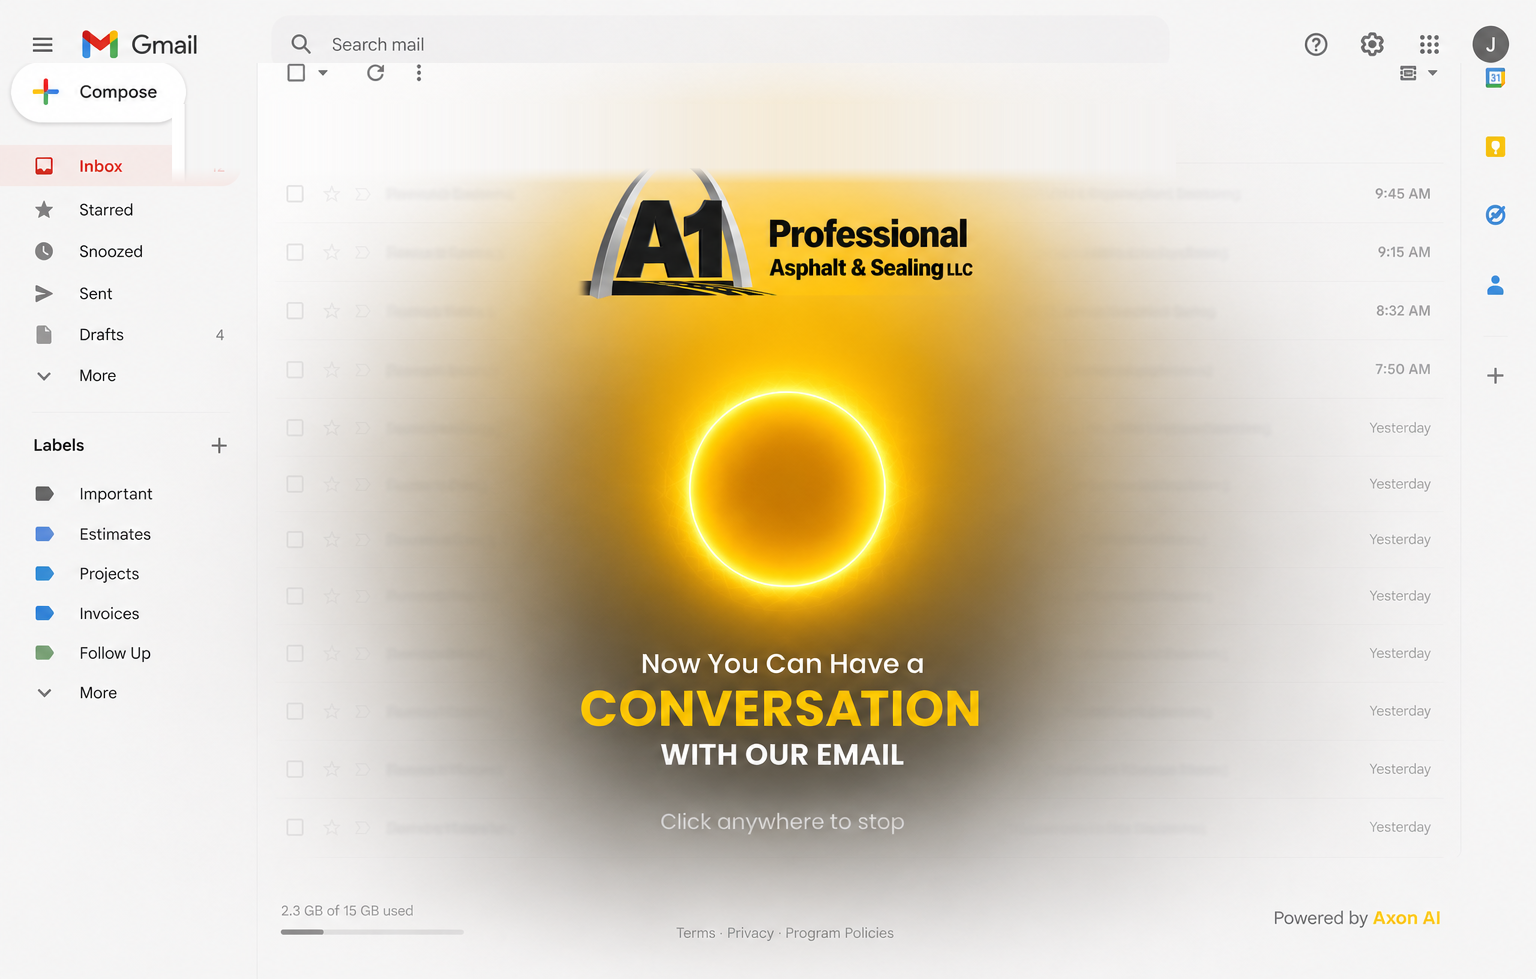
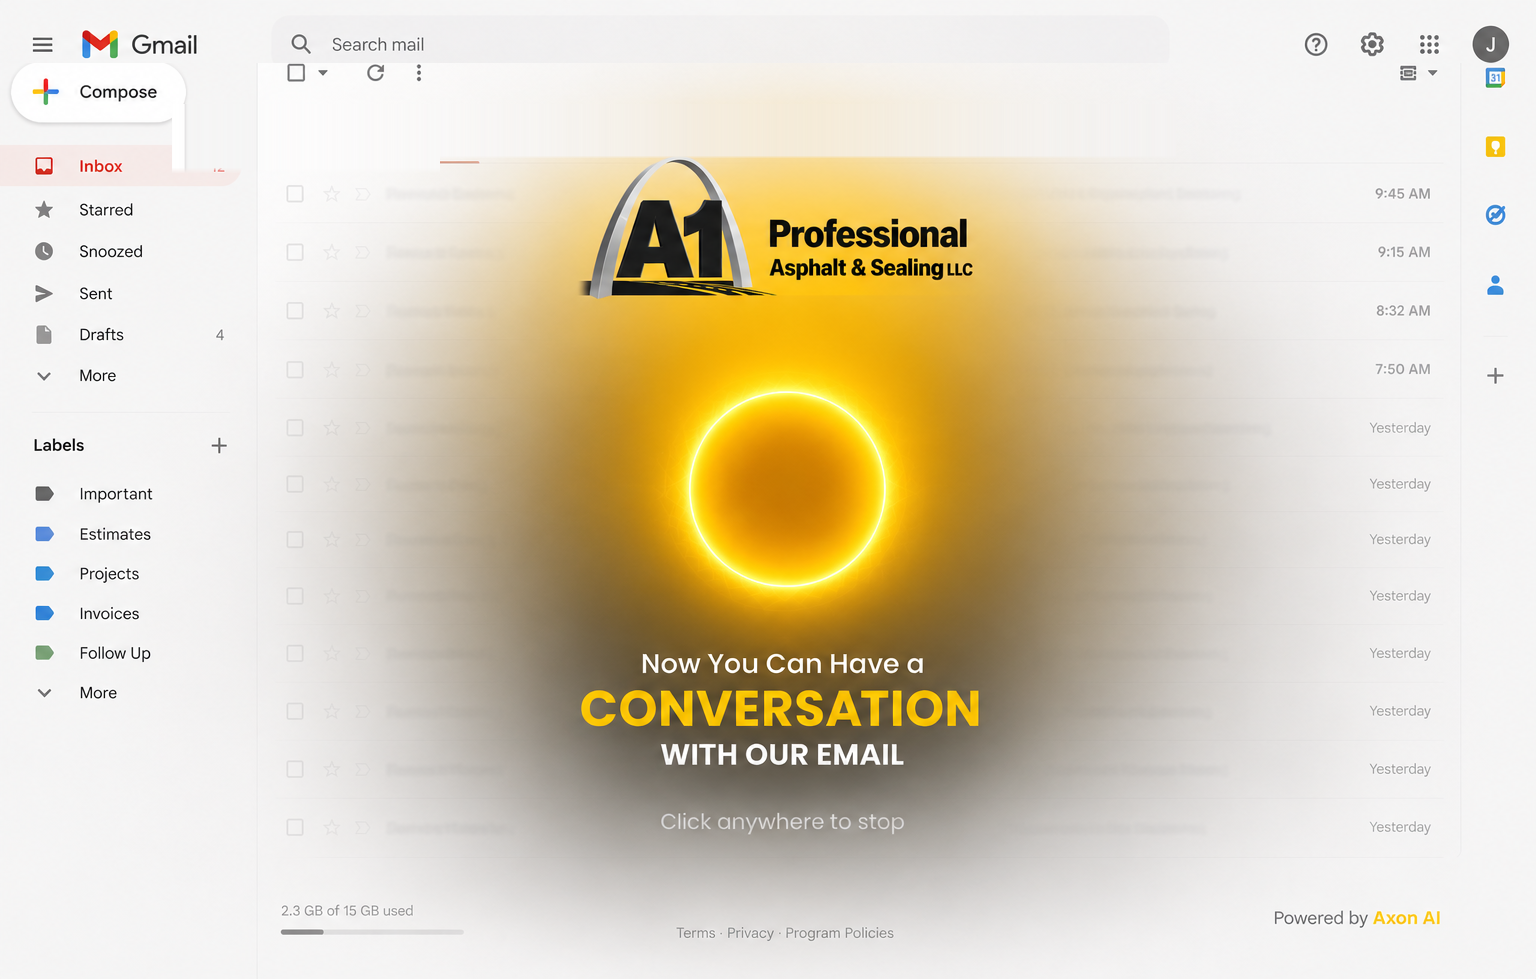
Restore Gmail illusion: remove black bar (float small glassy controls); fix arch (tab cleanup no longer touches it)
- Controls now float as small glassy pills (Type instead / Human team / Pause) + small loud-hint chip + tiny Powered by Axon AI. No solid black dock — the Gmail inbox shows through.
- talk-bg-v2.png regenerated: tab cleanup limited to rows 104-156 (full width) + left-only underline cleanup; arch region (x560-960, rows159-260) verified 0 pixels changed. Arch fully intact.
- Orb + CONVERSATION tagline fully visible (nothing covering them).
- Verified by rendering 2560x1440, 1440x900, 390x844.

Changed region(s): [[0.3438, 0.1532, 0.6875, 0.1839]]

diff --git a/public/talk.html b/public/talk.html
@@ -14,24 +14,27 @@ html,body{width:100%;height:100%;overflow:hidden;background:#fff;
 #bgWrap{position:fixed;inset:0;overflow:hidden;background:#fff;}
 #bg{position:absolute;inset:0;background-image:url('/email/talk-bg-v2.png');
   background-repeat:no-repeat;background-position:0 0;background-size:100% 100%;}
-/* Footer dock — taller so the three buttons read clearly. */
+/* Controls float as small glassy chips over the inbox — NO solid bar, so the
+   Gmail illusion shows through. */
 #dock{
-  position:fixed;left:0;right:0;bottom:0;z-index:5;
-  background:rgba(12,12,12,0.95);
-  border-top:1px solid rgba(255,255,255,0.12);
-  padding:14px 12px calc(14px + env(safe-area-inset-bottom));
+  position:fixed;left:0;right:0;bottom:0;z-index:5;background:transparent;border:0;
+  padding:0 12px calc(16px + env(safe-area-inset-bottom));
+  display:flex;flex-direction:column;align-items:center;gap:9px;pointer-events:none;
 }
+#dock>*{pointer-events:auto;}
 body.texting #dock{display:none;}
 #loudHint{
-  text-align:center;margin:0 0 11px;
-  font:650 13px/1.3 system-ui,sans-serif;color:rgba(255,255,255,0.7);
+  font:650 12.5px/1.2 system-ui,sans-serif;color:#fff;
+  background:rgba(18,18,18,0.6);-webkit-backdrop-filter:blur(8px);backdrop-filter:blur(8px);
+  padding:6px 13px;border-radius:999px;box-shadow:0 4px 14px rgba(0,0,0,0.28);
 }
 #loudHint b{color:#fed100;font-weight:850;}
 #poweredBy{
-  text-align:center;pointer-events:auto;margin-top:9px;
-  font:600 11px/1.2 system-ui,sans-serif;color:rgba(255,255,255,0.55);
+  font:600 10.5px/1.2 system-ui,sans-serif;color:#fff;
+  background:rgba(18,18,18,0.5);-webkit-backdrop-filter:blur(6px);backdrop-filter:blur(6px);
+  padding:3px 11px;border-radius:999px;
 }
-#poweredBy a{color:rgba(255,255,255,0.80);text-decoration:none;}
+#poweredBy a{color:#fed100;text-decoration:none;}
 #poweredBy a:hover{text-decoration:underline;}
 #poweredBy b{font-weight:800;color:rgba(255,255,255,0.90);}
 #outreachPage{display:none;}
@@ -72,22 +75,20 @@ body.outreach #outreachPage{
   animation:pulse 3s ease-in-out infinite;
 }
 #orb{position:fixed;border-radius:50%;cursor:pointer;z-index:5;background:transparent;}
-/* Controls live inside the bottom dock only. */
-#controls{
-  display:flex;justify-content:center;align-items:center;gap:5px;flex-wrap:nowrap;
-}
 /* All three buttons are always visible. */
-#controls{gap:10px;}
+#controls{display:flex;justify-content:center;align-items:center;gap:9px;}
 #controls button,#controls a{
-  padding:12px 20px;border-radius:999px;cursor:pointer;border:0;text-decoration:none;display:inline-block;
-  font:800 15px/1 system-ui,sans-serif;white-space:nowrap;flex-shrink:0;
+  padding:11px 18px;border-radius:999px;cursor:pointer;border:0;text-decoration:none;display:inline-block;
+  font:800 14px/1 system-ui,sans-serif;white-space:nowrap;flex-shrink:0;
+  -webkit-backdrop-filter:blur(8px);backdrop-filter:blur(8px);
+  box-shadow:0 6px 20px rgba(0,0,0,0.35);
 }
-#textToggle{background:rgba(55,55,55,0.96);color:#fff;border:1px solid rgba(255,255,255,0.28);}
+#textToggle{background:rgba(28,28,28,0.78);color:#fff;border:1px solid rgba(255,255,255,0.30);}
 #humanLink{background:#fed100;color:#111;display:inline-block;}
-#stopBtn{background:rgba(255,255,255,0.92);color:#111;}
+#stopBtn{background:rgba(255,255,255,0.94);color:#111;}
 @media (max-width:600px){
   #controls{gap:8px;}
-  #controls button,#controls a{padding:11px 16px;font-size:14px;}
+  #controls button,#controls a{padding:11px 15px;font-size:13.5px;}
 }
 body.paused #stopBtn{background:rgba(254,209,0,0.92);color:#111;}
 /* Gentle breathing glow — soft flare, no hard edges. */
